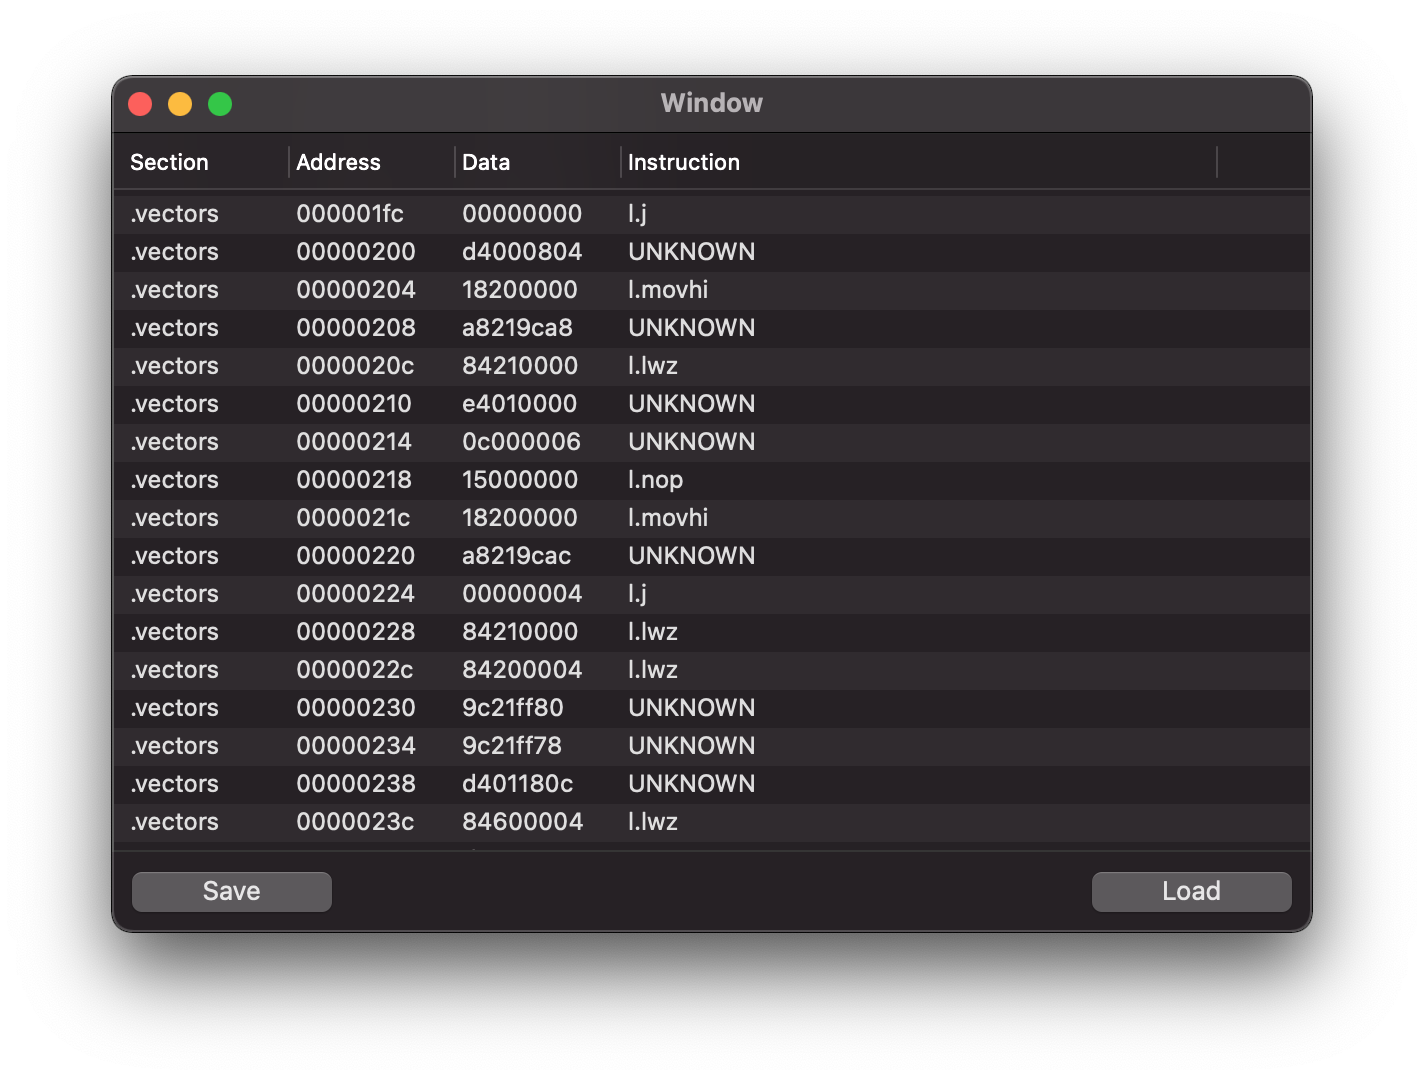
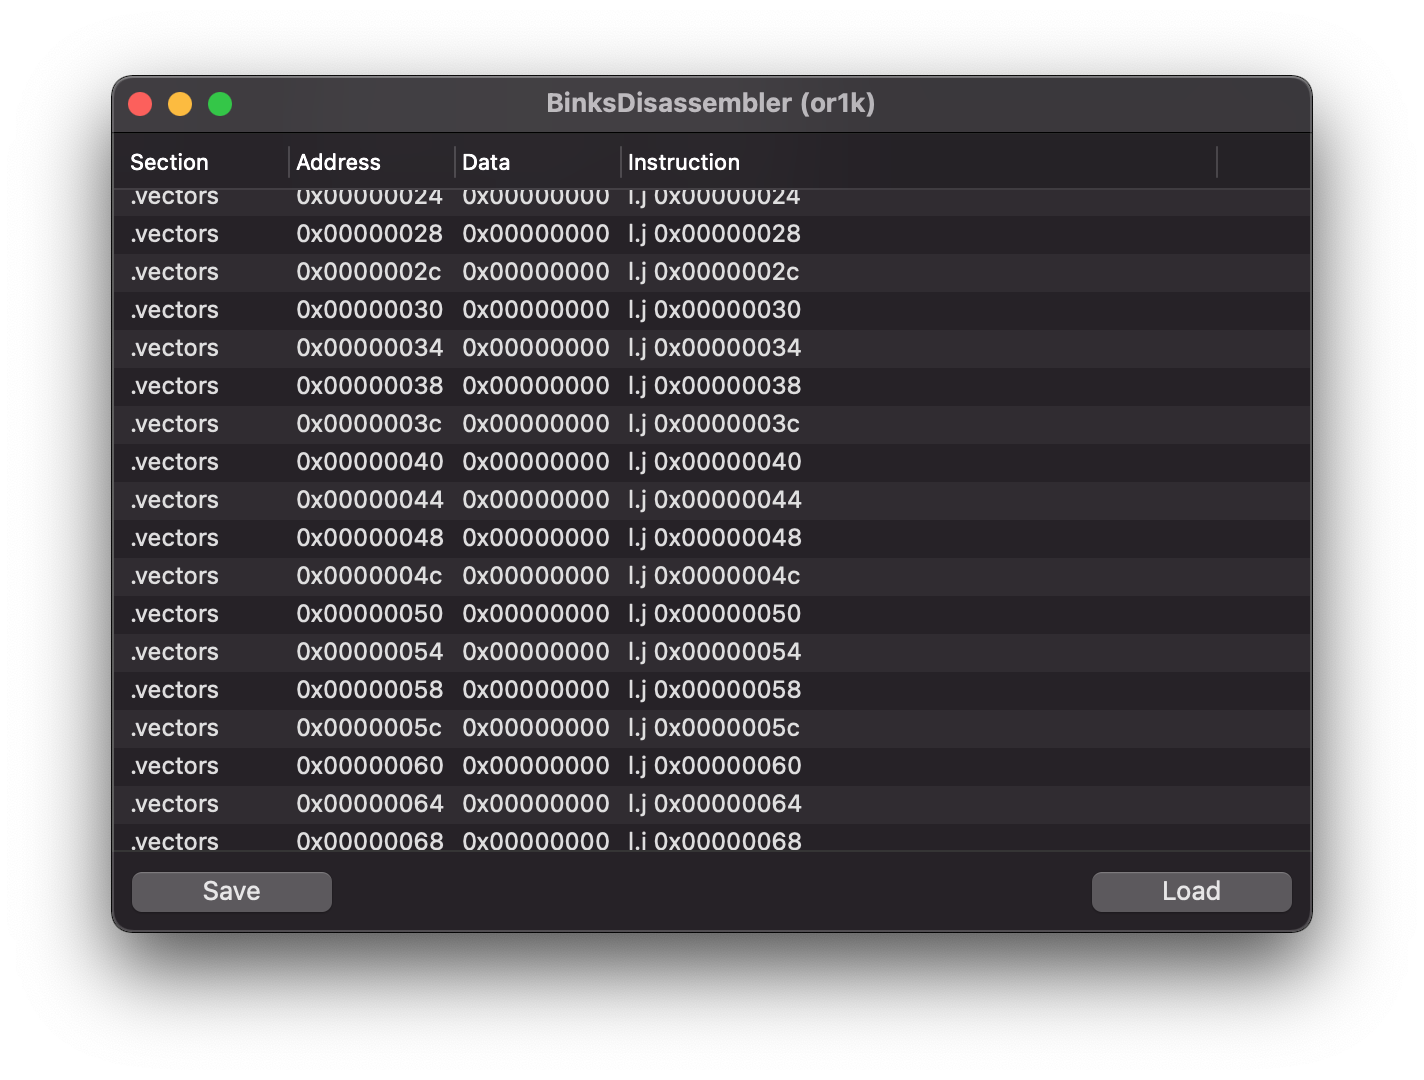
Attribute strategies ♟

Changed region(s): [[0.1854, 0.1528, 0.5562, 0.7944], [0.0927, 0.1528, 0.1545, 0.7944], [0.3708, 0.0917, 0.618, 0.1222]]

diff --git a/BinksDisassembler/Disassembler/Instructions/Instruction.cs b/BinksDisassembler/Disassembler/Instructions/Instruction.cs
@@ -1,5 +1,6 @@
 using System.Collections;
 using System.Collections.Generic;
+using BinksDisassembler.Disassembler.Instructions.ArgumentStrategies;
 using BinksDisassembler.Tools;
 
 namespace BinksDisassembler.Disassembler.Instructions
@@ -13,12 +14,14 @@ namespace BinksDisassembler.Disassembler.Instructions
 
     public class Instruction
     {
-        private Dictionary<string, InstructionArgument> _arguments = new Dictionary<string, InstructionArgument>();
-        private string _formatString;
+        private readonly Dictionary<string, InstructionArgument> _arguments = new Dictionary<string, InstructionArgument>();
+        private readonly string _formatString;
+        
+        public uint Position;
 
         public readonly string Name;
 
-        public BitArray? Data;
+        public BitArray Data = null;
 
         public Instruction(string name, string formatString = "")
         {
@@ -31,9 +34,9 @@ namespace BinksDisassembler.Disassembler.Instructions
             return Data != null ? Data.ToUnsignedInt().ToString("x8") : "";
         }
 
-        public Instruction AddArgument(string name, ushort size, ushort offset = 0, RegisterStrategy registerStrategy = null)
+        public Instruction AddArgument(string name, ushort size, ushort offset = 0, IArgumentStrategy strategy = null)
         {
-            _arguments[name] = new InstructionArgument(name, size, offset, registerStrategy);
+            _arguments[name] = new InstructionArgument(name, size, offset, strategy);
             return this;
         }
         
@@ -46,7 +49,7 @@ namespace BinksDisassembler.Disassembler.Instructions
 
             foreach (var argument in _arguments.Values)
             {
-                result.Add(argument.Name, argument.Format(Data));
+                result.Add(argument.Name, argument.Format(Data, Position));
             }
             
             return result.ToString();

diff --git a/BinksDisassembler/Disassembler/Instructions/InstructionArgument.cs b/BinksDisassembler/Disassembler/Instructions/InstructionArgument.cs
@@ -1,29 +1,9 @@
 using System.Collections;
+using BinksDisassembler.Disassembler.Instructions.ArgumentStrategies;
 using BinksDisassembler.Tools;
 
 namespace BinksDisassembler.Disassembler.Instructions
 {
-    public interface IFormatStrategy
-    {
-        public string Format(uint value);
-    }
-
-    public class DefaultStrategy : IFormatStrategy
-    {
-        public string Format(uint value)
-        {
-            return $"0x{value:x8}";
-        }
-    }
-
-    public class RegisterStrategy : IFormatStrategy
-    {
-        public string Format(uint value)
-        {
-            return $"r{value}";
-        }
-    }
-    
     public class InstructionArgument
     {
         public string Name { get; }
@@ -32,9 +12,9 @@ namespace BinksDisassembler.Disassembler.Instructions
         
         public ushort Offset { get; }
 
-        public readonly IFormatStrategy Strategy;
+        public readonly IArgumentStrategy Strategy;
 
-        public InstructionArgument(string name, ushort size, ushort offset, IFormatStrategy strategy = null)
+        public InstructionArgument(string name, ushort size, ushort offset, IArgumentStrategy strategy = null)
         {
             Name = name;
             Size = size;
@@ -47,9 +27,9 @@ namespace BinksDisassembler.Disassembler.Instructions
             return data.CopySlice(Offset, Size).ToUnsignedInt();
         }
 
-        public string Format(BitArray data)
+        public string Format(BitArray data, uint position)
         {
-            return Strategy.Format(Resolve(data));
+            return Strategy.Format(Resolve(data), position);
         }
     }
     

diff --git a/BinksDisassembler/Disassembler/Instructions/Orbis/LLwz.cs b/BinksDisassembler/Disassembler/Instructions/Orbis/LLwz.cs
@@ -1,5 +1,6 @@
 using System.Collections;
 using System.Collections.Generic;
+using BinksDisassembler.Disassembler.Instructions.ArgumentStrategies;
 
 namespace BinksDisassembler.Disassembler.Instructions.Orbis
 {
@@ -16,8 +17,8 @@ namespace BinksDisassembler.Disassembler.Instructions.Orbis
         public Instruction Create(uint position, BitArray data)
         {
             var instruction = new Instruction("l.lwz", "D,I(A)");
-            instruction.AddArgument("D", 5, 6, new RegisterStrategy());
-            instruction.AddArgument("A", 5, 16, new RegisterStrategy());
+            instruction.AddArgument("D", 5, 6, new RStrategy());
+            instruction.AddArgument("A", 5, 16, new RStrategy());
             instruction.AddArgument("I", 16, 16);
             instruction.Data = data;
             return instruction;

diff --git a/BinksDisassembler/Disassembler/Instructions/Orbis/LMac.cs b/BinksDisassembler/Disassembler/Instructions/Orbis/LMac.cs
@@ -1,5 +1,6 @@
 using System.Collections;
 using System.Collections.Generic;
+using BinksDisassembler.Disassembler.Instructions.ArgumentStrategies;
 
 namespace BinksDisassembler.Disassembler.Instructions.Orbis
 {
@@ -17,8 +18,8 @@ namespace BinksDisassembler.Disassembler.Instructions.Orbis
         public Instruction Create(uint position, BitArray data)
         {
             var instruction = new Instruction("l.mac", "A,B");
-            instruction.AddArgument("A", 5, 11, new RegisterStrategy());
-            instruction.AddArgument("B", 5, 16, new RegisterStrategy());
+            instruction.AddArgument("A", 5, 11, new RStrategy());
+            instruction.AddArgument("B", 5, 16, new RStrategy());
             instruction.Data = data;
             return instruction;
         }

diff --git a/BinksDisassembler/UI/InstructionRecordTableDelegate.cs b/BinksDisassembler/UI/InstructionRecordTableDelegate.cs
@@ -38,8 +38,8 @@ namespace BinksDisassembler.UI
             view.StringValue = tableColumn.Title switch
             {
                 "Section" => _dataSource.Records[(int) row].Section,
-                "Address" => _dataSource.Records[(int) row].Address.ToString("x8"),
-                "Data" => _dataSource.Records[(int) row].Instruction.ToHexString(),
+                "Address" => $"0x{_dataSource.Records[(int) row].Address:x8}",
+                "Data" => $"0x{_dataSource.Records[(int) row].Instruction.ToHexString()}",
                 "Instruction" => _dataSource.Records[(int) row].Instruction.ToString(),
                 _ => view.StringValue
             };

diff --git a/BinksDisassembler/Disassembler/Instructions/Orbis/LMovhi.cs b/BinksDisassembler/Disassembler/Instructions/Orbis/LMovhi.cs
@@ -1,5 +1,6 @@
 using System.Collections;
 using System.Collections.Generic;
+using BinksDisassembler.Disassembler.Instructions.ArgumentStrategies;
 
 namespace BinksDisassembler.Disassembler.Instructions.Orbis
 {
@@ -17,7 +18,7 @@ namespace BinksDisassembler.Disassembler.Instructions.Orbis
         public Instruction Create(uint position, BitArray data)
         {
             var instruction = new Instruction("l.movhi", "D,K")
-                .AddArgument("D", 5, 6, new RegisterStrategy())
+                .AddArgument("D", 5, 6, new RStrategy())
                 .AddArgument("K", 16, 16)
                 ;
             instruction.Data = data;

diff --git a/BinksDisassembler/Disassembler/Instructions/Orbis/LJ.cs b/BinksDisassembler/Disassembler/Instructions/Orbis/LJ.cs
@@ -1,5 +1,6 @@
 using System.Collections;
 using System.Collections.Generic;
+using BinksDisassembler.Disassembler.Instructions.ArgumentStrategies;
 
 namespace BinksDisassembler.Disassembler.Instructions.Orbis
 {
@@ -16,7 +17,7 @@ namespace BinksDisassembler.Disassembler.Instructions.Orbis
         public Instruction Create(uint position, BitArray data)
         {
             var instruction = new Instruction("l.j", "K");
-            instruction.AddArgument("K", 26, 6);
+            instruction.AddArgument("K", 26, 6, new NStrategy());
             instruction.Data = data;
             return instruction;
         }

diff --git a/BinksDisassembler/Disassembler/OpenRiscExecutable.cs b/BinksDisassembler/Disassembler/OpenRiscExecutable.cs
@@ -40,6 +40,7 @@ namespace BinksDisassembler.Disassembler
                         reader.ReadUInt32(), InstructionSize * 8
                         );
                     var instruction = _instructionSet.Resolve(address, chunk) ?? new Instruction("UNKNOWN");
+                    instruction.Position = address;
 
                     instructions.Add(
                         new InstructionRecord(s.Name, address, instruction)

diff --git a/BinksDisassembler/Disassembler/Instructions/Orbis/LMsb.cs b/BinksDisassembler/Disassembler/Instructions/Orbis/LMsb.cs
@@ -16,7 +16,7 @@ namespace BinksDisassembler.Disassembler.Instructions.Orbis
 
         public Instruction Create(uint position, BitArray data)
         {
-            var instruction = new Instruction("l.msb", "A,B");
+            var instruction = new Instruction("l.msb","A,B");
             instruction.AddArgument("A", 5, 11);
             instruction.AddArgument("B", 5, 16);
             return instruction;

diff --git a/BinksDisassembler/Disassembler/Instructions/ArgumentStrategies/NStrategy.cs b/BinksDisassembler/Disassembler/Instructions/ArgumentStrategies/NStrategy.cs
@@ -1,0 +1,11 @@
+namespace BinksDisassembler.Disassembler.Instructions.ArgumentStrategies
+{
+    public class NStrategy : IArgumentStrategy
+    {
+        public string Format(uint value, uint position)
+        {
+            var result = (value << 2) + position;
+            return $"0x{result:x8}";
+        }
+    }
+}

diff --git a/BinksDisassembler/Disassembler/Instructions/ArgumentStrategies/DefaultStrategy.cs b/BinksDisassembler/Disassembler/Instructions/ArgumentStrategies/DefaultStrategy.cs
@@ -1,0 +1,10 @@
+namespace BinksDisassembler.Disassembler.Instructions.ArgumentStrategies
+{
+    public class DefaultStrategy : IArgumentStrategy
+    {
+        public string Format(uint value, uint position)
+        {
+            return $"0x{value:x8}";
+        }
+    }
+}

diff --git a/BinksDisassembler/Disassembler/Instructions/ArgumentStrategies/RStrategy.cs b/BinksDisassembler/Disassembler/Instructions/ArgumentStrategies/RStrategy.cs
@@ -1,0 +1,10 @@
+namespace BinksDisassembler.Disassembler.Instructions.ArgumentStrategies
+{
+    public class RStrategy : IArgumentStrategy
+    {
+        public string Format(uint value, uint position)
+        {
+            return $"r{value}";
+        }
+    }
+}
